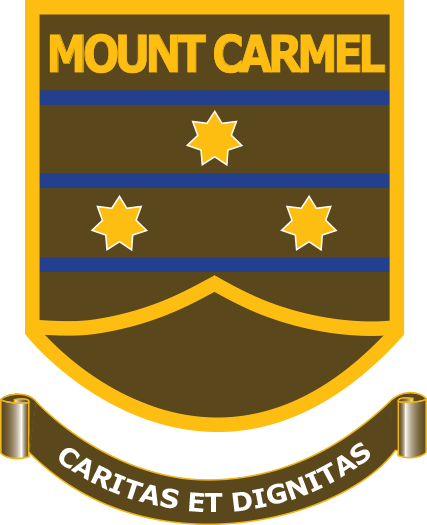
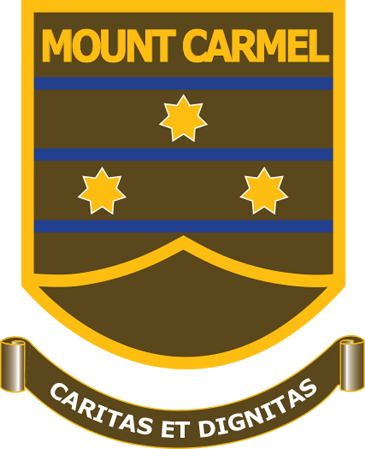
image resize

diff --git a/css/style.css b/css/style.css
@@ -58,7 +58,7 @@ body {
 
 /*header section*/
 .hero_area {
-  height: 500vh;
+  height: 50vh;
   position: relative;
   background: -webkit-gradient(linear, left top, right top, color-stop(50%, #f2f7fd), color-stop(45%, #2b417e));
   background: linear-gradient(to right, #f2f7fd 50%, #2b417e 45%);
